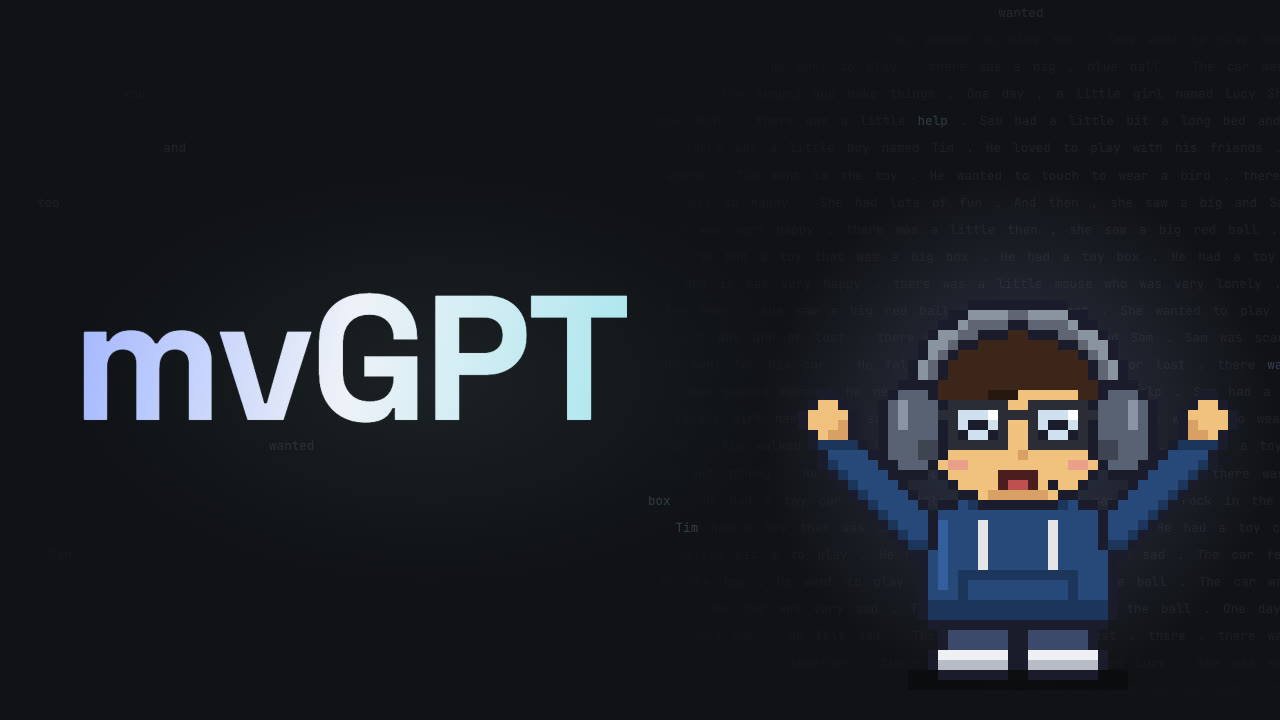
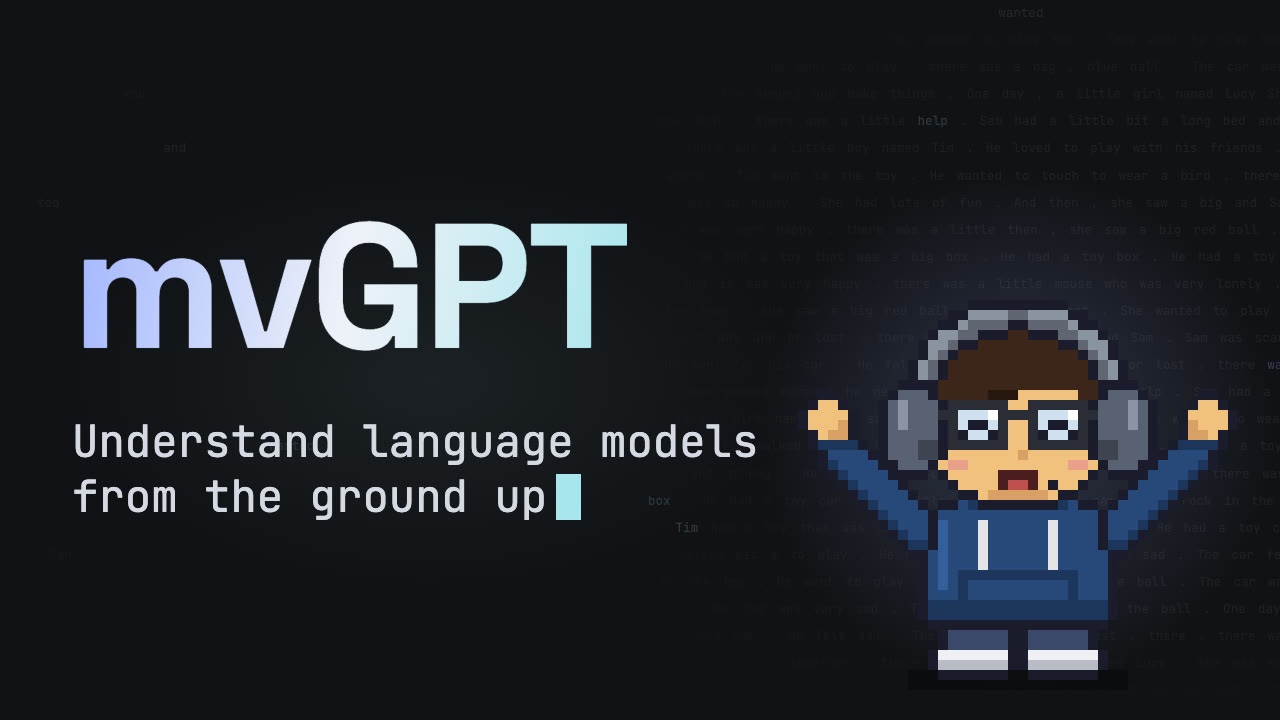
Build the site from mvgpt-series d34c578

Changed region(s): [[0.0625, 0.3056, 0.5938, 0.7333]]

diff --git a/index.html b/index.html
@@ -1,7 +1,7 @@
 <!DOCTYPE html><html lang="en-GB" data-astro-cid-hkbrpulz><head><script async src="https://www.googletagmanager.com/gtag/js?id=G-F16ZZFP5E4"></script><script>window.dataLayer = window.dataLayer || [];
 function gtag(){dataLayer.push(arguments);}
 gtag('js', new Date());
-gtag('config', "G-F16ZZFP5E4");</script><meta charset="utf-8"><meta name="viewport" content="width=device-width, initial-scale=1"><title>mvGPT | Minimum Viable GPT: A Language Model from Scratch</title><meta name="description" content="Understand language models from the ground up: define a GPT in PyTorch, take it through the whole training pipeline, from pretraining to reinforcement learning, with the metrics that show what it learned, and deploy it."><link rel="canonical" href="https://mvgpt.nenuadrian.com/"><link rel="icon" href="/favicon.svg" type="image/svg+xml"><link rel="alternate" type="application/rss+xml" title="mvGPT" href="/rss.xml"><link rel="sitemap" href="/sitemap.xml"><meta name="theme-color" content="#101215"><meta property="og:site_name" content="mvGPT"><meta property="og:type" content="website"><meta property="og:title" content="mvGPT | Minimum Viable GPT: A Language Model from Scratch"><meta property="og:description" content="Understand language models from the ground up: define a GPT in PyTorch, take it through the whole training pipeline, from pretraining to reinforcement learning, with the metrics that show what it learned, and deploy it."><meta property="og:url" content="https://mvgpt.nenuadrian.com/"><meta property="og:locale" content="en_GB"><meta property="og:image" content="https://mvgpt.nenuadrian.com/cover.aed741b4d3.jpg"><meta property="og:image:alt" content="Minimum Viable GPT: A Language Model from Scratch"><meta name="twitter:card" content="summary_large_image"><style>@font-face{font-family:"aphrodite-display";src:url("/fonts/display-SpaceGrotesk-Medium.woff2") format("woff2");font-weight:500;font-style:normal;font-display:swap}
+gtag('config', "G-F16ZZFP5E4");</script><meta charset="utf-8"><meta name="viewport" content="width=device-width, initial-scale=1"><title>mvGPT | Minimum Viable GPT: A Language Model from Scratch</title><meta name="description" content="Understand language models from the ground up: define a GPT in PyTorch, take it through the whole training pipeline, from pretraining to reinforcement learning, with the metrics that show what it learned, and deploy it."><link rel="canonical" href="https://mvgpt.nenuadrian.com/"><link rel="icon" href="/favicon.svg" type="image/svg+xml"><link rel="alternate" type="application/rss+xml" title="mvGPT" href="/rss.xml"><link rel="sitemap" href="/sitemap.xml"><meta name="theme-color" content="#101215"><meta property="og:site_name" content="mvGPT"><meta property="og:type" content="website"><meta property="og:title" content="mvGPT | Minimum Viable GPT: A Language Model from Scratch"><meta property="og:description" content="Understand language models from the ground up: define a GPT in PyTorch, take it through the whole training pipeline, from pretraining to reinforcement learning, with the metrics that show what it learned, and deploy it."><meta property="og:url" content="https://mvgpt.nenuadrian.com/"><meta property="og:locale" content="en_GB"><meta property="og:image" content="https://mvgpt.nenuadrian.com/cover.90e0e34fb7.jpg"><meta property="og:image:alt" content="Minimum Viable GPT: A Language Model from Scratch"><meta name="twitter:card" content="summary_large_image"><style>@font-face{font-family:"aphrodite-display";src:url("/fonts/display-SpaceGrotesk-Medium.woff2") format("woff2");font-weight:500;font-style:normal;font-display:swap}
 @font-face{font-family:"aphrodite-display";src:url("/fonts/display-SpaceGrotesk-Bold.woff2") format("woff2");font-weight:700;font-style:normal;font-display:swap}
 :root{--bg:#101215;--bg-rgb:16 18 21;--surface:#14171b;--surface-2:#191d22;--line:#1f242b;--shadow:#272d36;--text:#e8ecf2;--heading:#eef2f8;--prose:#d8dce2;--muted:#a6aab0;--faint:#81868d;--ember:#9fb4ff;--ember-2:#a8e6ed;--on-ember:#14171b;--code:#9FB4FF;--font-display:"aphrodite-display", var(--font-ui);--font-ui:"Inter", -apple-system, 'Helvetica Neue', sans-serif;--font-mono:"JetBrains Mono", Menlo, monospace;--font-hand:"Caveat", 'Comic Sans MS', cursive}</style><style>/* mvGPT's website on top of aphrodite's: a near-black slate, a soft glow, titles in a periwinkle ->
    white -> mint ramp, Space Grotesk throughout. aphrodite's own rules are in a cascade layer, so
